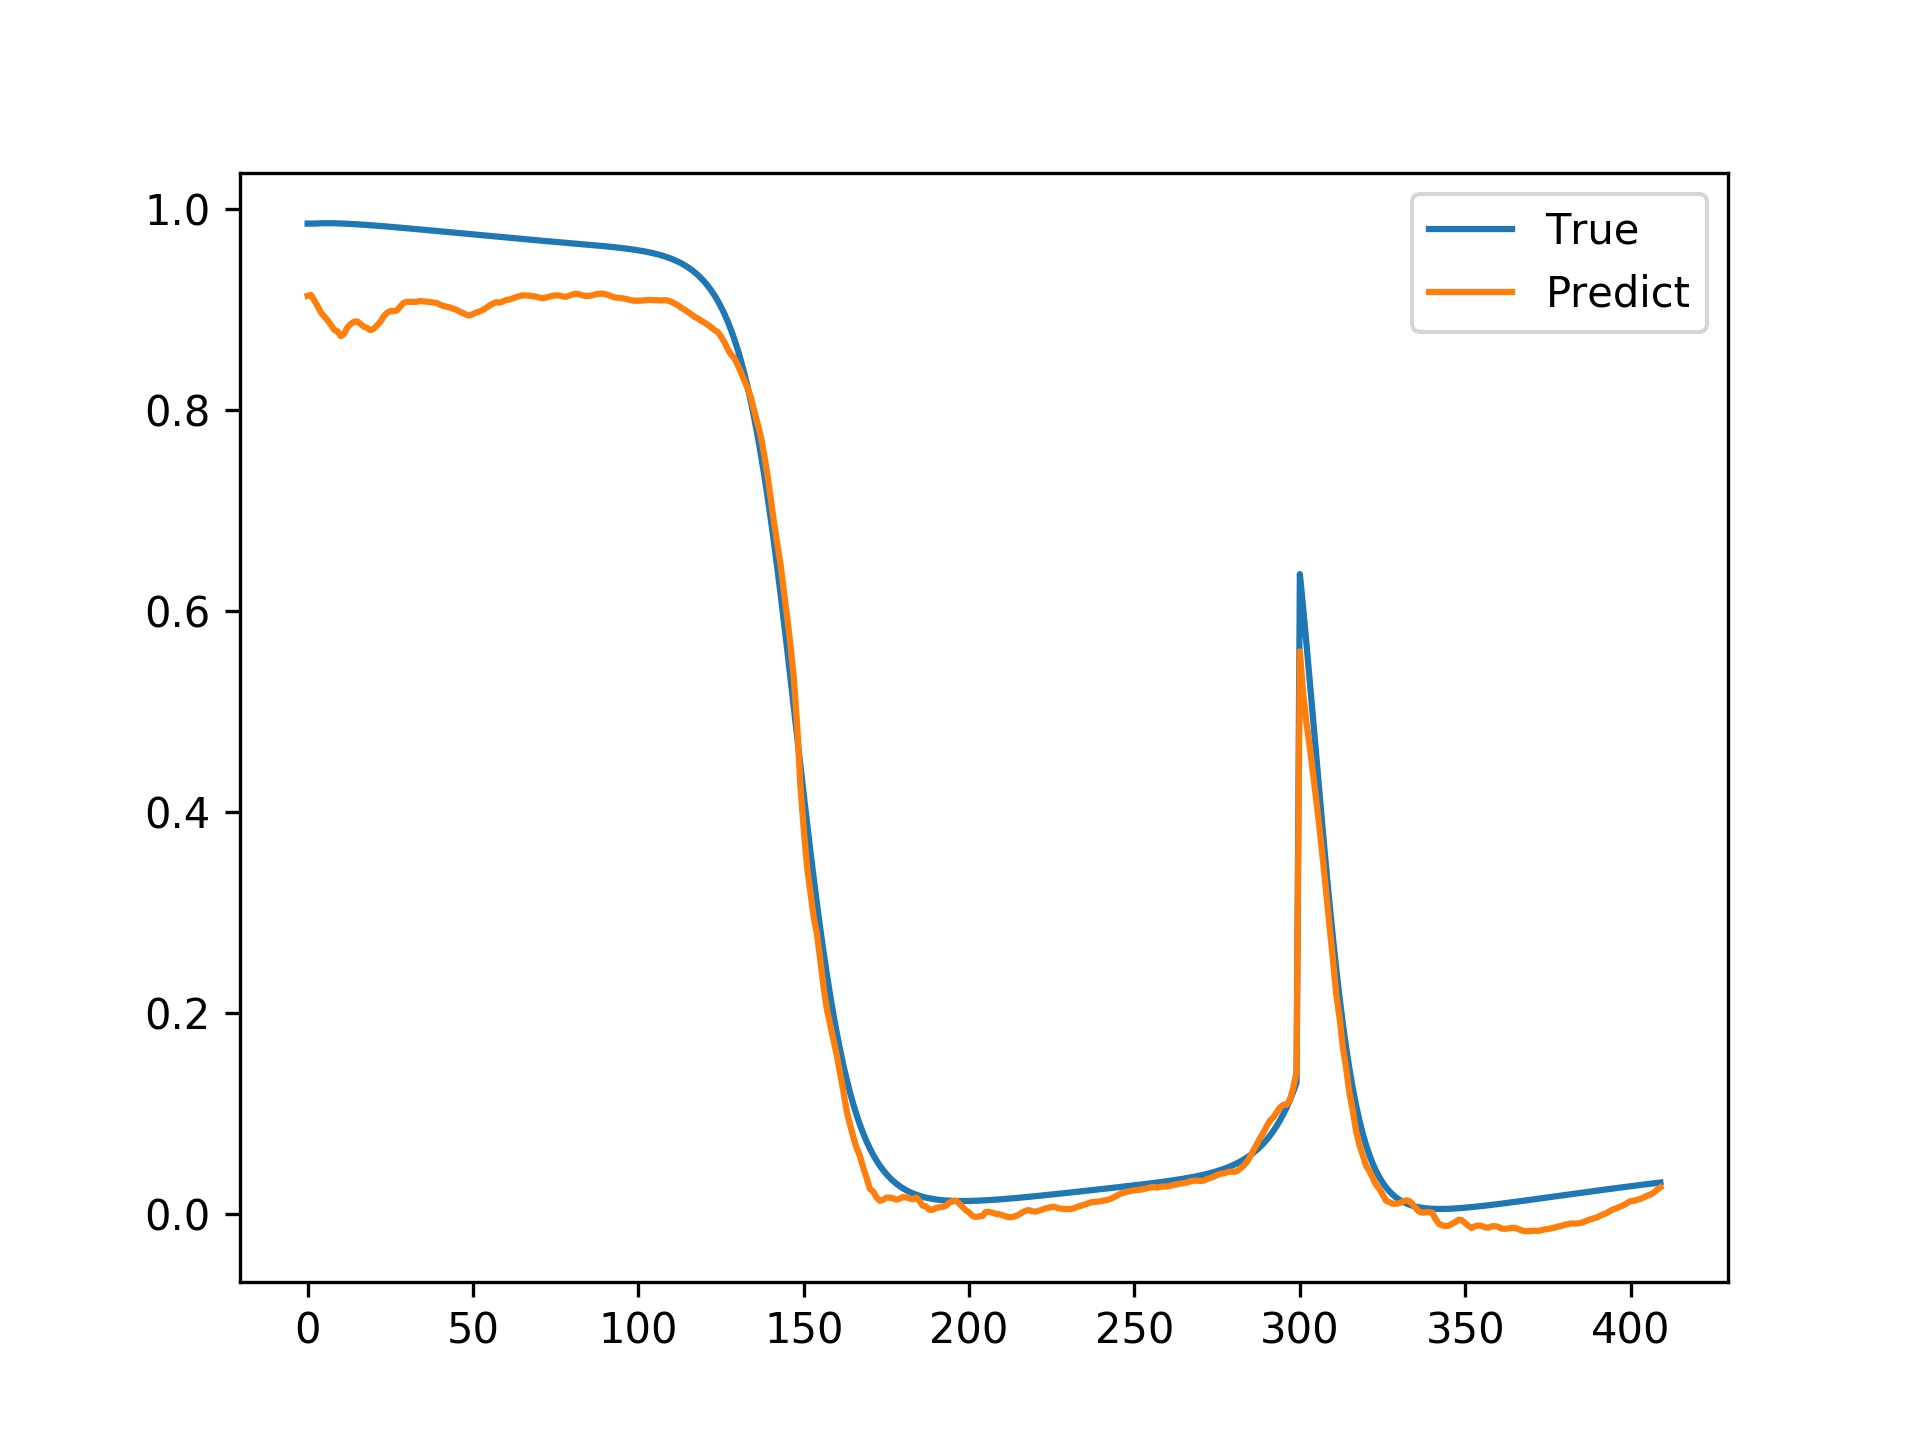
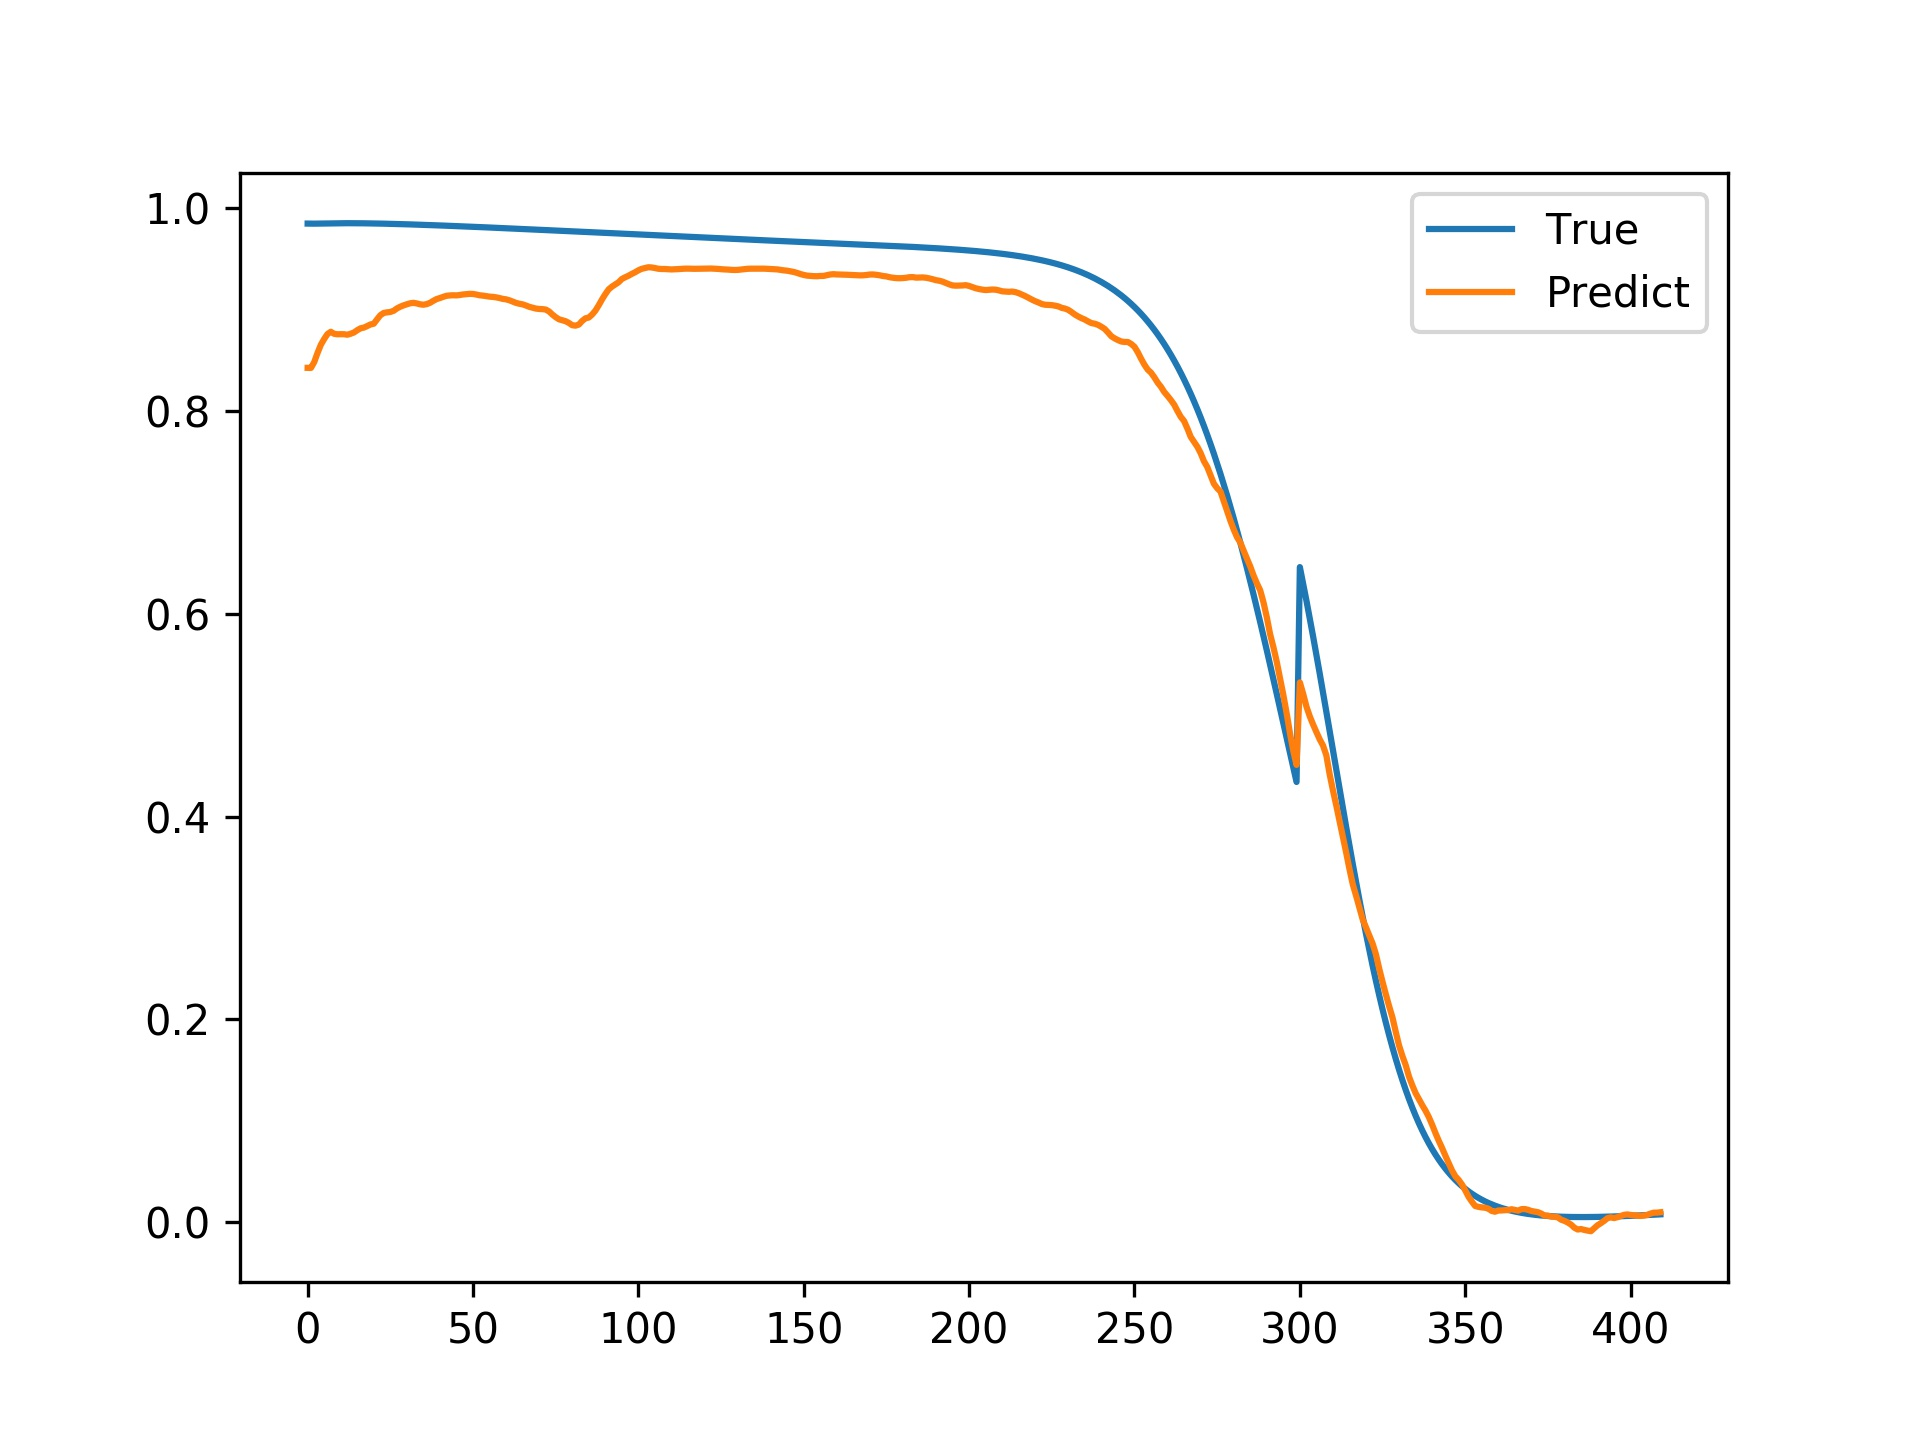
add tau=1.0

diff --git a/FHN/fhn_eval.py b/FHN/fhn_eval.py
@@ -41,7 +41,7 @@ def seed(cfg):
         torch.cuda.manual_seed(cfg.seed)
 
 
-def fhn_gather_latent_from_trained_high_dim_model(config_filepath, checkpoint_filepath):
+def fhn_gather_latent_from_trained_high_dim_model(config_id, config_filepath, checkpoint_filepath):
     
     checkpoint_filepath = glob.glob(os.path.join(checkpoint_filepath, '*.ckpt'))[0]
     cfg = load_config(filepath=config_filepath)
@@ -97,7 +97,7 @@ def fhn_gather_latent_from_trained_high_dim_model(config_filepath, checkpoint_fi
     # train_dataset = FHNDataset('Data/Data/train',
     #                             data_cache_size=3,
     #                             data_info_dict=data_info_dict)
-    data_info_dict['truncate_data_batches'] = 4096
+    data_info_dict['truncate_data_batches'] = 2048
     val_dataset = FHNDataset(cfg.data_filepath+'/val',
                               data_cache_size=3,
                               data_info_dict=data_info_dict)
@@ -155,7 +155,7 @@ def fhn_gather_latent_from_trained_high_dim_model(config_filepath, checkpoint_fi
     plt.plot(range(length), plot_act_true[:length, dimension].cpu(), label='True')
     plt.plot(range(length), plot_act_pred[:length, dimension].cpu(), label='Predict')
     plt.legend()
-    plt.savefig(f"act_tau{[0.005,0.01,0.025,0.05,0.075,0.1,0.3,0.5][config_id-1]}_dimension{dimension}_seed{cfg.seed}.jpg", dpi=300)
+    plt.savefig(f"act_tau{[0.005,0.01,0.025,0.05,0.075,0.1,0.3,0.5,1.0][config_id-1]}_dimension{dimension}_seed{cfg.seed}.jpg", dpi=300)
 
     mkdir(var_log_dir+'_val')
     print(f'latent.npy save at: {var_log_dir}_val/latent.npy')
@@ -164,6 +164,6 @@ def fhn_gather_latent_from_trained_high_dim_model(config_filepath, checkpoint_fi
 
 if __name__ == '__main__':
 
-    for config_id in range(8):
-        checkpoint_filepath = f"logs/logs_tau{[0.005,0.01,0.025,0.05,0.075,0.1,0.3,0.5][config_id]}_fhn_fhn-ae_1/lightning_logs/checkpoints"
-        fhn_gather_latent_from_trained_high_dim_model(f"config/config{config_id+1}.yaml", checkpoint_filepath)
+    for config_id in [8]:
+        checkpoint_filepath = f"logs/logs_tau{[0.005,0.01,0.025,0.05,0.075,0.1,0.3,0.5,1.0][config_id]}_fhn_fhn-ae_1/lightning_logs/checkpoints"
+        fhn_gather_latent_from_trained_high_dim_model(config_id+1, f"config/config{config_id+1}.yaml", checkpoint_filepath)

diff --git a/FHN/fhn_model.py b/FHN/fhn_model.py
@@ -118,18 +118,18 @@ class FHN_VisDynamicsModel(pl.LightningModule):
                 }
 
         if stage == 'fit':
-            data_info_dict['truncate_data_batches'] = 8192
+            data_info_dict['truncate_data_batches'] = 4096
             self.train_dataset = FHNDataset(self.hparams.data_filepath+'/train',
                                         data_cache_size=3,
                                         data_info_dict=data_info_dict)
 
-            data_info_dict['truncate_data_batches'] = 4096
+            data_info_dict['truncate_data_batches'] = 2048
             self.val_dataset = FHNDataset(self.hparams.data_filepath+'/val',
                                         data_cache_size=3,
                                         data_info_dict=data_info_dict)
 
         if stage == 'test':
-            data_info_dict['truncate_data_batches'] = 2048
+            data_info_dict['truncate_data_batches'] = 1024
             self.test_dataset = FHNDataset(self.hparams.data_filepath+'/test',
                                         data_cache_size=3,
                                         data_info_dict=data_info_dict)

diff --git a/FHN/dimension.py b/FHN/dimension.py
@@ -28,8 +28,8 @@ def calculate_intrinsic_dimension_statistics():
         dims_all.append(dims)
         dim_mean = np.mean(dims_all)
         dim_std = np.std(dims_all)
-        print(f'Seed[{[0.005,0.01,0.025,0.05,0.075,0.1,0.3,0.5][config_id]}] Mean (±std):', '%.2f (±%.2f)' % (dim_mean, dim_std))
-        print(f'Seed[{[0.005,0.01,0.025,0.05,0.075,0.1,0.3,0.5][config_id]}] Confidence interval:', '(%.1f, %.1f)' % (dim_mean-1.96*dim_std, dim_mean+1.96*dim_std))
+        print(f'tau[{[0.005,0.01,0.025,0.05,0.075,0.1,0.3,0.5,1.0][config_id]}] Mean (±std):', '%.2f (±%.2f)' % (dim_mean, dim_std))
+        # print(f'tau[{[0.005,0.01,0.025,0.05,0.075,0.1,0.3,0.5][config_id]}] Confidence interval:', '(%.1f, %.1f)' % (dim_mean-1.96*dim_std, dim_mean+1.96*dim_std))
 
 
 if __name__ == '__main__':

diff --git a/FHN/Data/0_data_gen.py b/FHN/Data/0_data_gen.py
@@ -37,7 +37,7 @@ for file_name in file_names:
     rho_act, rho_in, t_vec, mom_act, mom_in, energ_act, energ_in, dt, N, L, dx, x, Dx, Dy, a0, a1, n1, omegas, tf, a0 = run_lb_fhn_ic(rho_act_0, rho_in_0, tf)
 
     # Subsampling
-    subsampling=60
+    subsampling=1
     tau=subsampling*dt
     rho_act = rho_act[::subsampling]
     rho_in = rho_in[::subsampling]

diff --git a/FHN/fhn_intrinsic_dimension.py b/FHN/fhn_intrinsic_dimension.py
@@ -40,7 +40,7 @@ def eval_id_latent(vars_filepath, if_refine, if_all_methods):
 
 if __name__ == '__main__':
     
-    for config_id in range(8):
+    for config_id in range(9):
         cfg = load_config(filepath=f"config/config{config_id+1}.yaml")
         cfg = munchify(cfg)
     

diff --git a/FHN/Data/2_create_training_data.py b/FHN/Data/2_create_training_data.py
@@ -4,7 +4,7 @@ import os
 import h5py
 
 # Load and concat data
-tau = 0.3
+tau = 0.005
 with open(f"./Simulation_Data/lattice_boltzmann_fhn_tau{tau}.pickle", "rb") as file:
     # Pickle the "data" dictionary using the highest protocol available.
     simdata = pickle.load(file)

diff --git a/FHN/fhn_main.py b/FHN/fhn_main.py
@@ -91,5 +91,5 @@ def fhn_main(config_filepath):
 
 if __name__ == '__main__':
 
-    for config_id in range(8):
+    for config_id in [8]:
         fhn_main(f"config/config{config_id+1}.yaml")
